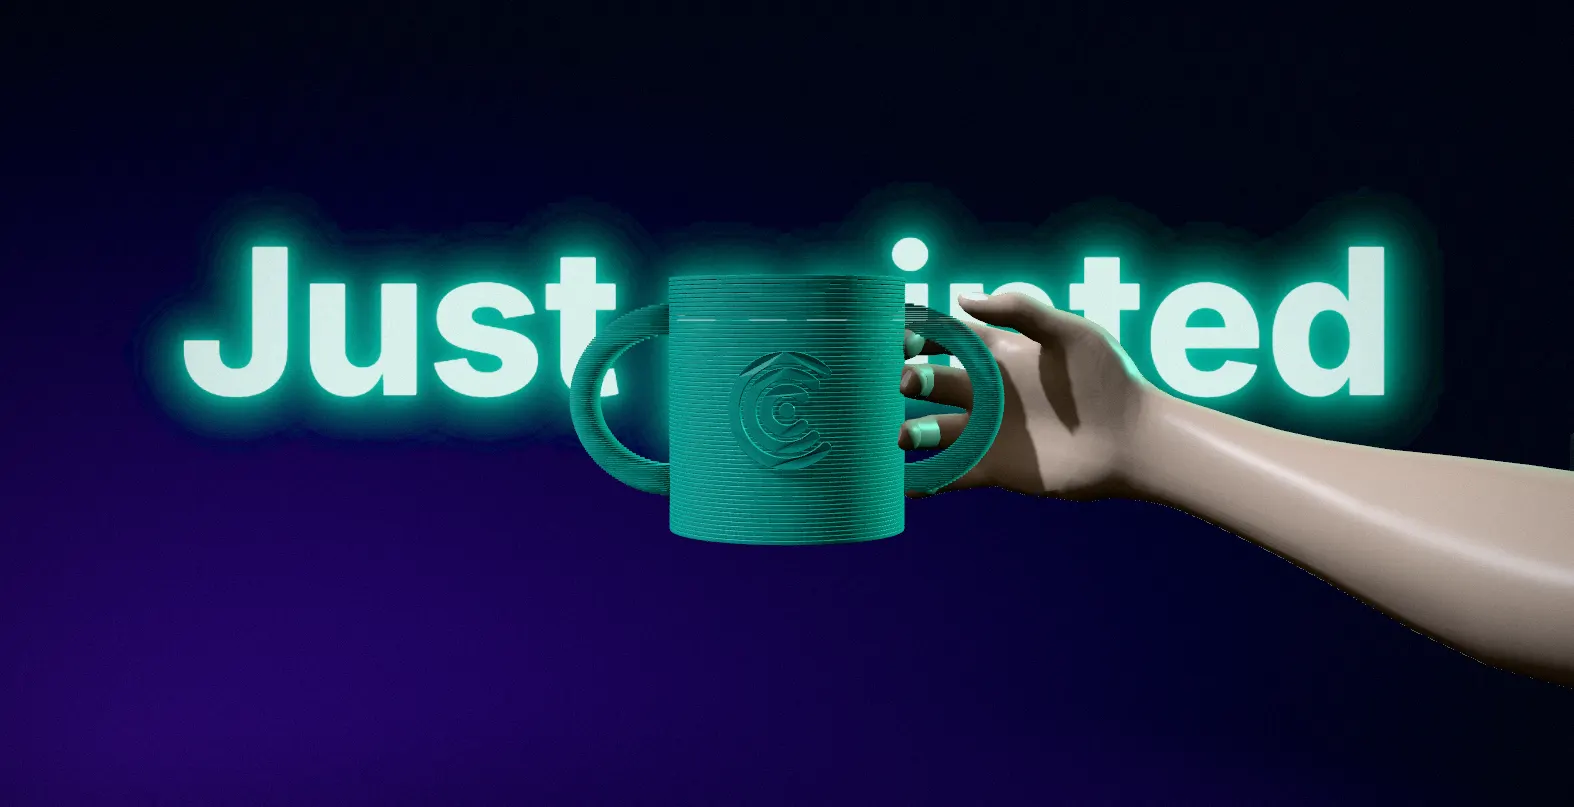
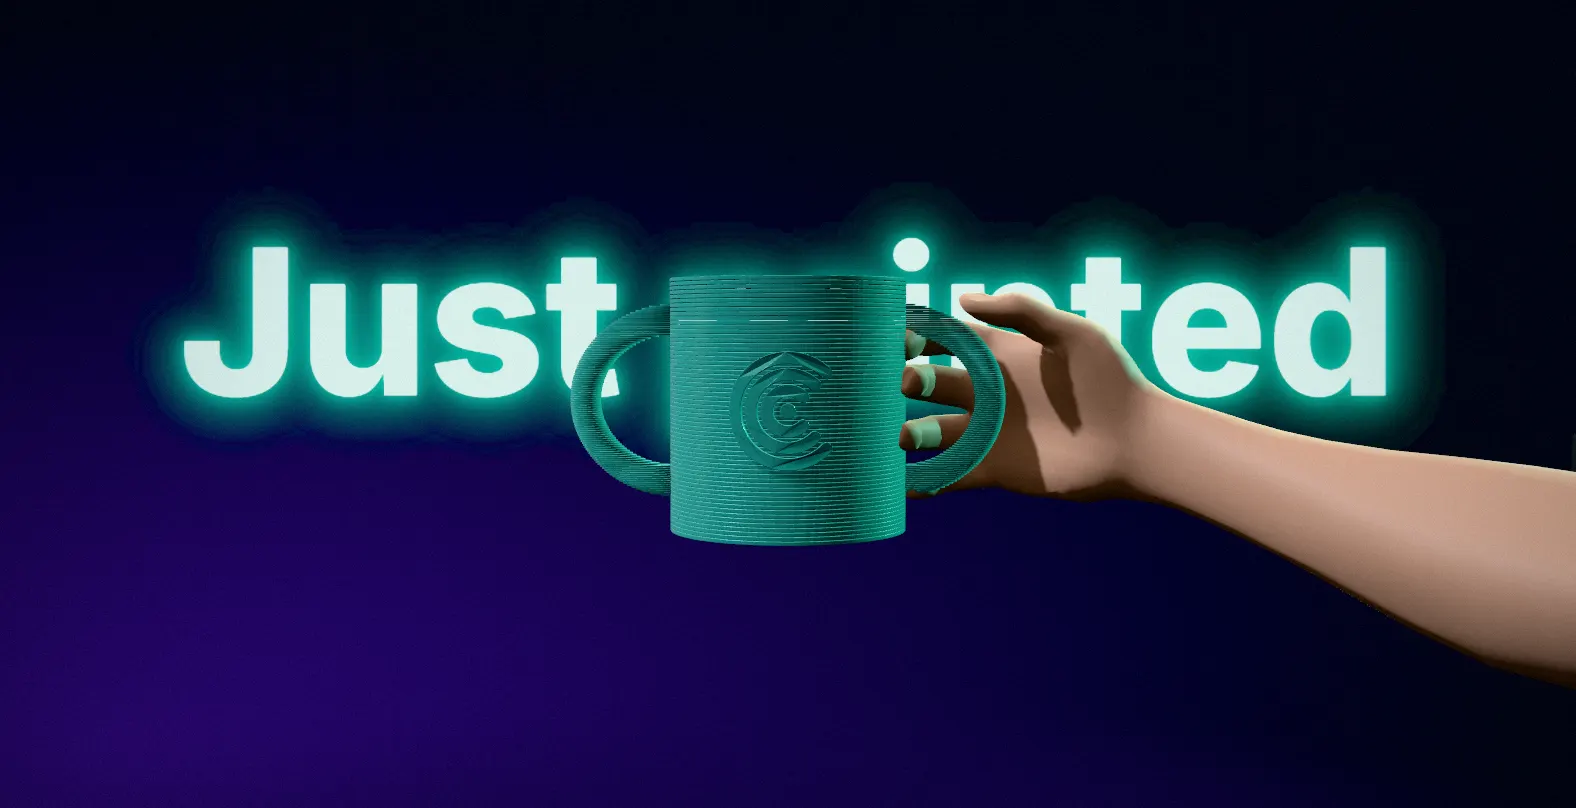
Light the background while the mug is held, and give the mug, the hand and the lens a finer finish

Changed region(s): [[0.3736, 0.3408, 1.0, 0.8364], [0.6537, 0.5266, 0.6849, 0.6196], [0.3424, 0.4337, 0.3736, 0.5266]]

diff --git a/src/scene/mugGlow.ts b/src/scene/mugGlow.ts
@@ -1,26 +1,25 @@
-// A glow behind the freshly printed mug while the visitor touches it (or a
-// hand holds it): a soft wash of colour whose hue slowly runs through the
-// spectrum, with a brighter spot circling the mug, after the "glowing
-// shadow" effect. It stands just behind the mug, facing the camera, so the
-// mug and the hand stay in front of it.
+// While the visitor touches the freshly printed mug (or a hand holds it), the
+// whole background lights up: colour washes in from the edges of the frame,
+// its hue slowly running through the spectrum, with a large soft light
+// drifting round the picture (after the "glowing shadow" effect). It is a
+// backdrop: it stands behind the giant line, filling the view, so the mug,
+// the hand and the line all stay in front of it, and the middle is left
+// darker so they read clearly.
 import * as THREE from "three";
 import type { Theme } from "../theme/theme";
 import { TYPE_LAYER } from "./giantType";
 
 export interface MugGlow {
   object: THREE.Mesh;
-  /** Places it `behind` cm beyond `center` as seen from the camera; amount 0..1, time in seconds. */
-  update(camera: THREE.Camera, center: THREE.Vector3, behind: number, amount: number, time: number): void;
+  /** Places it `behind` cm beyond `center` as seen from the camera, filling the view; amount 0..1, time in seconds. */
+  update(camera: THREE.PerspectiveCamera, center: THREE.Vector3, behind: number, amount: number, time: number): void;
   setTheme(theme: Theme): void;
   dispose(): void;
 }
 
-/** Width of the glow (cm); the mug with its handles is about 16 cm across. */
-const SIZE = 46;
-
 export function createMugGlow(theme: Theme): MugGlow {
   const material = new THREE.ShaderMaterial({
-    uniforms: { amount: { value: 0 }, time: { value: 0 }, light: { value: theme === "light" ? 1 : 0 } },
+    uniforms: { amount: { value: 0 }, time: { value: 0 }, light: { value: 0 }, aspect: { value: 1 } },
     vertexShader: /* glsl */ `
       varying vec2 vUv;
       void main() {
@@ -31,28 +30,30 @@ export function createMugGlow(theme: Theme): MugGlow {
       uniform float amount;
       uniform float time;
       uniform float light;
+      uniform float aspect;
       varying vec2 vUv;
       vec3 hue(float h) {
         vec3 k = vec3(0.0, 2.0 / 3.0, 1.0 / 3.0);
         return clamp(abs(fract(h + k) * 6.0 - 3.0) - 1.0, 0.0, 1.0);
       }
       void main() {
-        vec2 p = vUv - 0.5;
-        float d = length(p) * 2.0;
-        // The wash: brightest round the mug, fading out softly.
-        float wash = pow(clamp(1.0 - d, 0.0, 1.0), 1.6);
-        // The spot circles the mug once every four seconds.
-        float a = time * 6.2831853 / 4.0;
-        vec2 spot = vec2(cos(a), sin(a)) * 0.2;
-        float s = exp(-dot(p - spot, p - spot) * 34.0);
-        float h = time / 6.0;
-        vec3 colour = hue(h) * wash * 0.9 + hue(h + 0.12) * s * 1.1;
-        // On light paper the colour is softer and laid over, not added.
-        float alpha = clamp(wash * 0.85 + s, 0.0, 1.0) * amount;
-        gl_FragColor = light > 0.5 ? vec4(mix(vec3(1.0), hue(h + 0.06), 0.75), alpha * 0.7) : vec4(colour * amount, alpha);
+        vec2 p = (vUv - 0.5) * vec2(aspect, 1.0);
+        float h = time / 8.0;
+        // Colour rises towards the edges of the frame; the middle stays clear.
+        float edge = smoothstep(0.18, 0.75, length(p * vec2(0.8, 1.15)));
+        // A large soft light drifts round the picture once every nine seconds.
+        float a = time * 6.2831853 / 9.0;
+        vec2 c = vec2(cos(a) * 0.55 * aspect, sin(a) * 0.32);
+        float spot = exp(-dot(p - c, p - c) * 3.2);
+        // Two hues a third of the wheel apart, mixed across the frame.
+        vec3 tint = mix(hue(h), hue(h + 0.33), 0.5 + 0.5 * sin(atan(p.y, p.x) + time * 0.4));
+        float strength = clamp(edge * 0.75 + spot * 0.65, 0.0, 1.0) * amount;
+        gl_FragColor = light > 0.5
+          ? vec4(mix(vec3(1.0), tint, 0.55), strength * 0.55)
+          : vec4(tint * strength * 0.9, strength);
       }`,
     // Kept in the opaque list, so that with its low render order it is drawn
-    // before the mug and the hand; custom blending still lets it glow.
+    // right after the background, before the giant line and everything else.
     transparent: false,
     blending: THREE.CustomBlending,
     depthTest: false,
@@ -68,9 +69,8 @@ export function createMugGlow(theme: Theme): MugGlow {
   }
   applyTheme(theme);
 
-  const object = new THREE.Mesh(new THREE.PlaneGeometry(SIZE, SIZE), material);
-  // Drawn after the giant line and before everything else.
-  object.renderOrder = -50;
+  const object = new THREE.Mesh(new THREE.PlaneGeometry(1, 1), material);
+  object.renderOrder = -150;
   object.layers.set(TYPE_LAYER);
   object.frustumCulled = false;
   object.visible = false;
@@ -83,10 +83,13 @@ export function createMugGlow(theme: Theme): MugGlow {
       if (!object.visible) return;
       toCenter.copy(center).sub(camera.position).normalize();
       object.position.copy(center).addScaledVector(toCenter, behind);
+      const distance = object.position.distanceTo(camera.position);
+      const height = 2 * distance * Math.tan(THREE.MathUtils.degToRad(camera.fov / 2)) * 1.15;
+      object.scale.set(height * camera.aspect, height, 1);
       object.quaternion.copy(camera.quaternion);
-      object.scale.setScalar(0.7 + 0.3 * amount);
       material.uniforms.amount.value = amount;
       material.uniforms.time.value = time;
+      material.uniforms.aspect.value = camera.aspect;
     },
     setTheme: applyTheme,
     dispose() {

diff --git a/src/scene/printJob.ts b/src/scene/printJob.ts
@@ -61,7 +61,7 @@ function logoGeometry(segments: number) {
     shapes.push(shape);
   }
   shapes.push(new THREE.Shape().absarc(0, 0, 3.5 * scale, 0, Math.PI * 2, false));
-  const geometry = new THREE.ExtrudeGeometry(shapes, { depth: 0.2, bevelEnabled: true, bevelThickness: 0.03, bevelSize: 0.02, bevelSegments: 1, curveSegments: segments });
+  const geometry = new THREE.ExtrudeGeometry(shapes, { depth: 0.2, bevelEnabled: true, bevelThickness: 0.03, bevelSize: 0.02, bevelSegments: 3, curveSegments: segments });
   // Bend the flat logo around the wall.
   const wall = MUG_RADIUS + 0.2;
   const centerY = (LAYERS * LAYER_HEIGHT) / 2;
@@ -74,6 +74,8 @@ function logoGeometry(segments: number) {
   geometry.computeVertexNormals();
   return geometry;
 }
+
+const WHITE = new THREE.Color(0xffffff);
 
 /** Real layer height in cm; the drawn layers are ten times thicker. */
 const REAL_LAYER = 0.03;
@@ -171,7 +173,17 @@ export function createPrintJob(bedSurface: THREE.Object3D, quality: QualityLevel
   const object = new THREE.Group();
   bedSurface.add(object);
 
-  const filament = new THREE.MeshStandardMaterial({ color: 0x2aa898, roughness: 0.42, metalness: 0 });
+  // PETG: a satin plastic with a thin glossy skin and a soft sheen along its layers.
+  const filament = new THREE.MeshPhysicalMaterial({
+    color: 0x2aa898,
+    roughness: 0.38,
+    metalness: 0,
+    clearcoat: quality === 2 ? 0.45 : 0.25,
+    clearcoatRoughness: 0.32,
+    sheen: 0.5,
+    sheenRoughness: 0.55,
+    sheenColor: new THREE.Color(0x9ff5e6),
+  });
   const looks = { uThermal: { value: 0 }, uCool: { value: 0 }, uRidges: { value: 0 }, uSeal: { value: 0 } };
   addLooks(filament, looks);
   const current = new THREE.MeshStandardMaterial({ color: 0xf5c400, emissive: 0x6b4e00, roughness: 0.4 });
@@ -347,6 +359,9 @@ export function createPrintJob(bedSurface: THREE.Object3D, quality: QualityLevel
     },
     setColor(color) {
       filament.color.setHex(color);
+      // The sheen is a paler shade of the same filament.
+      filament.sheenColor.setHex(color).lerp(WHITE, 0.55);
+      logoMaterial.sheenColor.copy(filament.sheenColor);
       logoMaterial.color.setHex(color);
       previewMaterial.color.setHex(color);
       // The layer being printed stands out in yellow, or in white on a yellow mug.

diff --git a/src/scene/runScene.ts b/src/scene/runScene.ts
@@ -140,6 +140,10 @@ const LensShader = {
     void main() {
       vec4 color = texture2D(tDiffuse, vUv);
       float edge = smoothstep(0.25, 0.85, length((vUv - 0.5) * vec2(1.0, 0.8)));
+      // A touch of colour fringing towards the corners, as a real lens has.
+      vec2 shift = (vUv - 0.5) * edge * 0.0035;
+      color.r = texture2D(tDiffuse, vUv + shift).r;
+      color.b = texture2D(tDiffuse, vUv - shift).b;
       color.rgb *= 1.0 - vignette * edge;
       color.rgb += (random(vUv * 1000.0 + time) - 0.5) * grain;
       gl_FragColor = color;
@@ -895,7 +899,7 @@ export async function startScene(canvas: HTMLCanvasElement, opts: SceneOptions):
     const glowTarget = (touchingMug || handHolding) && reveal.type > 0.3 ? 1 : 0;
     glowAmount += (glowTarget - glowAmount) * (1 - Math.exp(-5 * dt));
     if (Math.abs(glowTarget - glowAmount) < 0.003) glowAmount = glowTarget;
-    mugGlow.update(camera, mugMiddle, 7, glowAmount, now / 1000);
+    mugGlow.update(camera, mugMiddle, TYPE_BEHIND + 30, glowAmount, now / 1000);
     const glowing = glowAmount > 0;
     // The light follows the story, from a cool blueprint to a warm morning.
     studio.setStory(p);

diff --git a/src/scene/hand.ts b/src/scene/hand.ts
@@ -49,6 +49,19 @@ export async function loadHand(url: string): Promise<Hand> {
     const mesh = o as THREE.SkinnedMesh;
     if (mesh.isSkinnedMesh) {
       mesh.castShadow = mesh.receiveShadow = true;
+      // Skin: warm, soft and slightly velvety at grazing angles, instead of grey plastic.
+      const old = mesh.material as THREE.MeshStandardMaterial;
+      mesh.material = new THREE.MeshPhysicalMaterial({
+        color: 0xd9a587,
+        roughness: 0.58,
+        metalness: 0,
+        sheen: 0.6,
+        sheenRoughness: 0.4,
+        sheenColor: new THREE.Color(0xffc6a8),
+        clearcoat: 0.08,
+        clearcoatRoughness: 0.6,
+      });
+      old.dispose();
       // The skinned arm moves far from its bind pose, so its box would cull it wrongly.
       mesh.frustumCulled = false;
     }

diff --git a/src/app/globals.css b/src/app/globals.css
@@ -2453,3 +2453,19 @@ main:focus {
 .story__package-row li {
   scroll-snap-align: start;
 }
+
+/* The story's words stay readable over any scene: a soft shadow in the dark
+   theme, a soft halo of paper in the light one. */
+.story:not(.story--stills) .story__beat:not(.story__beat--intro) .story__text {
+  text-shadow: 0 1px 2px rgb(0 0 0 / 0.45), 0 0 24px rgb(0 0 0 / 0.55);
+}
+
+:root[data-theme="light"] .story:not(.story--stills) .story__beat:not(.story__beat--intro) .story__text {
+  text-shadow: 0 0 2px var(--paper), 0 0 22px var(--paper);
+}
+
+@media (prefers-color-scheme: light) {
+  :root:not([data-theme="dark"]) .story:not(.story--stills) .story__beat:not(.story__beat--intro) .story__text {
+    text-shadow: 0 0 2px var(--paper), 0 0 22px var(--paper);
+  }
+}

diff --git a/CHANGELOG.md b/CHANGELOG.md
@@ -7,6 +7,19 @@ of this repository: https://github.com/laroca00/3dcare/commits/main
 
 ## 2026-10-24
 
+### A director's pass over the home story
+- When the mug is touched or held, the light now fills the background
+  behind the giant line: colour washes in from the edges, its hue slowly
+  running through the spectrum, with a large soft light drifting across;
+  the mug, the hand and the line stay clear in front of it.
+- The mug looks like real PETG: a satin surface with a thin glossy skin
+  and a soft sheen along its layers, in whatever colour was chosen. The
+  raised logo has smoother edges.
+- The hand has warm, soft skin instead of grey plastic.
+- A subtle lens finish: a touch of colour fringing towards the corners.
+- The story's words stay readable over every scene (a soft shadow in the
+  dark theme, a paper halo in the light one).
+
 ### A desk that fills the screen, and a close-up that shows the mug
 - The home page now opens straight onto the desk, seen from above and
   filling the whole screen: a large cutting mat with its grid and the
